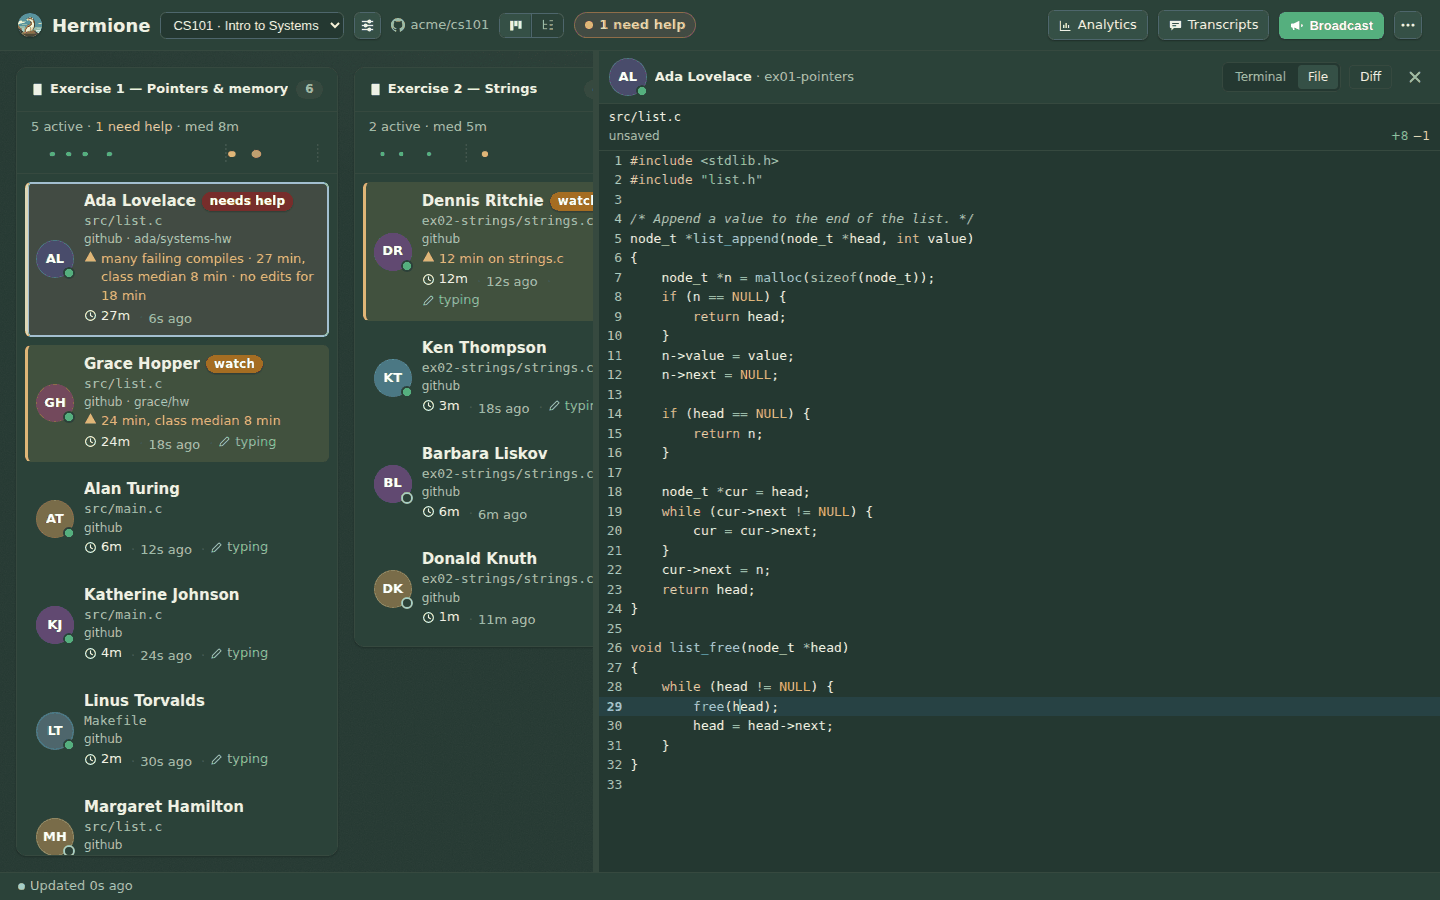
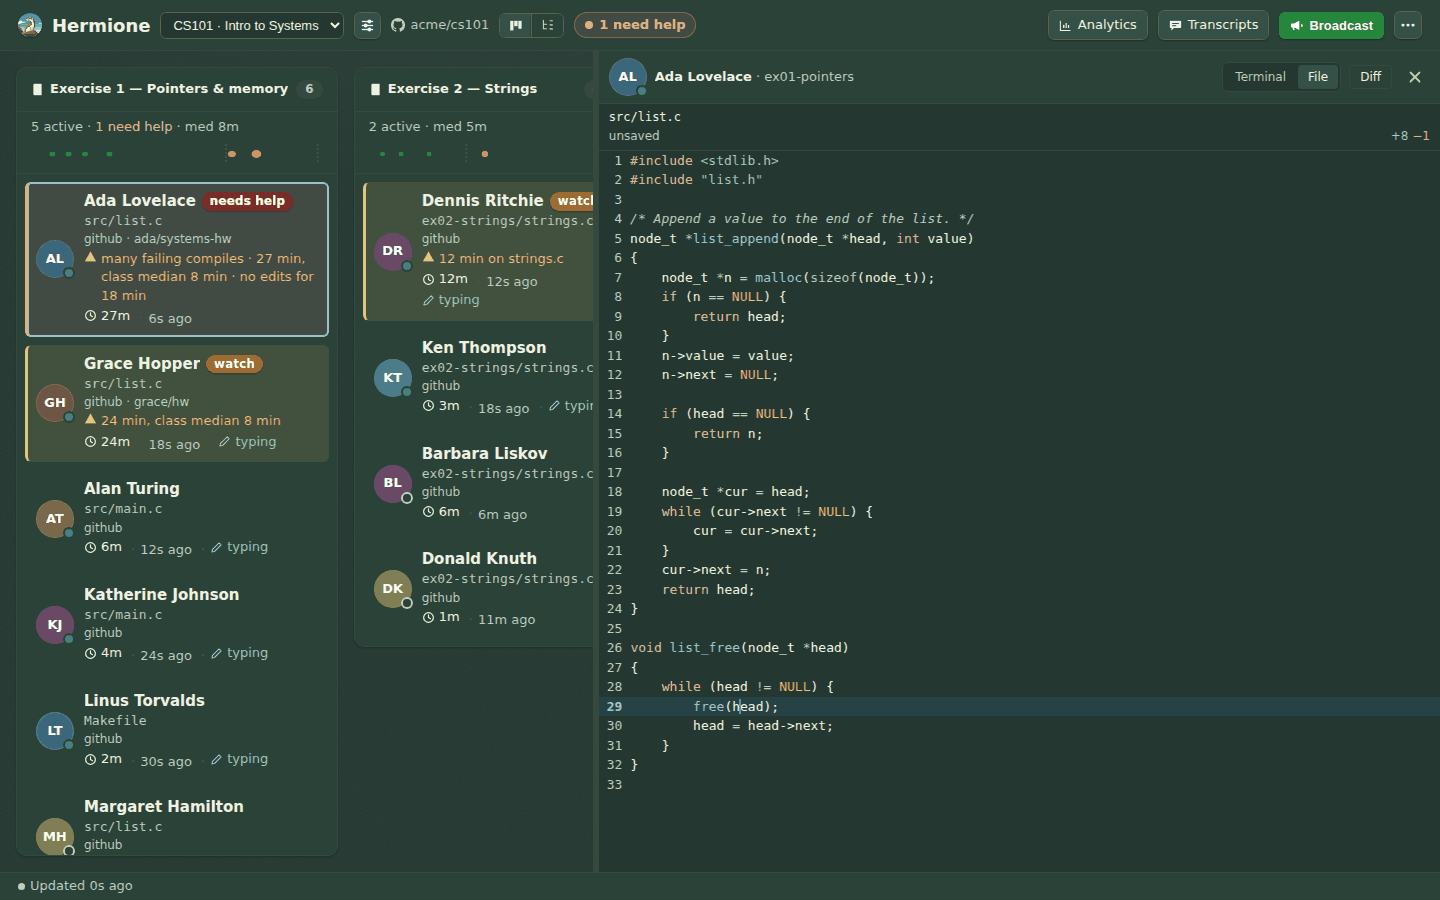
Fix the accessibility findings from an axe audit
Auditing every page in both themes with axe-core found real problems:

- White text on the primary button (Broadcast, Sign in, dialog Send) was 2.75:1
  in the dark theme. Buttons now use --primary-bg/--primary-hover, which clear
  4.5:1 in every theme.
- The needs-help pill's red text was 4.18:1 in the light theme; muted and subtle
  text on flagged cards, the green 'typing' text, and amber warning text (now
  --amber-text) were all just under 4.5:1 on the tinted cards in one theme or the
  other; the selected Diff toggle's blue was 4.15:1 in light.
- No page had a main landmark. The board's content is now <main>, the terminal
  dock a named region, and the login form sits in <main> with a <footer>.
- The board/dock divider was mouse-only. It is now focusable, moves with the
  arrow keys (Shift for larger steps, Home/End for the limits) and reports its
  position with aria-valuenow.

contrast.py now also gates these pairings, and the axe audit is kept in the
screenshot skill as scripts/a11y.js. The teacher guide's screenshots are
regenerated.

Claude-Session: https://claude.ai/code/session_011qtRC3MwSDrHkoBdiSnsy7

Changed region(s): [[0.875, 0.0, 0.9688, 0.0622], [0.4062, 0.0622, 0.4688, 0.1244], [0.0, 0.2489, 0.0625, 0.3111]]

diff --git a/crates/server/static/index.html b/crates/server/static/index.html
@@ -44,7 +44,7 @@
       font-size: var(--fs-sm); color: var(--fg-subtle);
       display: inline-flex; align-items: center; gap: 5px;
     }
-    .freshness.stale { color: var(--amber); }
+    .freshness.stale { color: var(--amber-text); }
     .freshness.failed { color: var(--red-text); }
     .freshness .fdot { width: 7px; height: 7px; border-radius: 50%; background: currentColor; flex: none; }
     /* Header controls keep their size. Without this every item shrinks at once
@@ -56,8 +56,8 @@
     .hint { flex: 0 1 auto; min-width: 0; overflow: hidden; text-overflow: ellipsis; white-space: nowrap; }
 
     /* Broadcast is the header's primary action — filled, so it leads the eye. */
-    #broadcast { background: var(--green); border-color: transparent; color: #fff; font-weight: 600; }
-    #broadcast:hover { background: var(--green-emphasis); }
+    #broadcast { background: var(--primary-bg); border-color: transparent; color: #fff; font-weight: 600; }
+    #broadcast:hover { background: var(--primary-hover); }
     /* On a narrower window the bar gives up words before it gives up controls:
      * the actions keep their icons (and their names, for screen readers), then
      * the wordmark and repo name go. */
@@ -289,7 +289,7 @@
       font-weight: 600; flex: none; letter-spacing: .01em; box-shadow: var(--shadow-1); }
     .pill.help { background: var(--help-bg); color: #fff; }
     .pill.watch { background: var(--watch-bg); color: #fff; }
-    .who .reason { font-size: var(--fs-sm); color: var(--amber); margin-top: 2px;
+    .who .reason { font-size: var(--fs-sm); color: var(--amber-text); margin-top: 2px;
       display: flex; align-items: flex-start; gap: 4px; }
     .who .prov { font-size: var(--fs-xs); color: var(--fg-subtle); margin-top: 1px;
       white-space: nowrap; overflow: hidden; text-overflow: ellipsis; }
@@ -409,7 +409,7 @@
     .filev .fv-head .sum { margin-left: auto; white-space: nowrap; }
     .filev .fv-head .plus { color: var(--green-text); }
     .filev .fv-head .minus { color: var(--red-text); }
-    .filev .fv-head .stale { color: var(--amber); }
+    .filev .fv-head .stale { color: var(--amber-text); }
     .filev .fv-body {
       position: relative; flex: 1 1 auto; min-height: 0; overflow: auto;
       font-family: ui-monospace, monospace; font-size: var(--fs-sm); line-height: 1.5;
@@ -485,8 +485,8 @@
     .btn { padding: 8px 14px; border-radius: 8px; border: 1px solid var(--border);
       background: var(--surface-2); color: var(--fg); font: inherit; font-size: var(--fs-sm); cursor: pointer; }
     .btn:hover { background: var(--border); }
-    .btn.primary { background: var(--green); border-color: transparent; color: #fff; font-weight: 600; }
-    .btn.primary:hover { background: var(--green-emphasis); }
+    .btn.primary { background: var(--primary-bg); border-color: transparent; color: #fff; font-weight: 600; }
+    .btn.primary:hover { background: var(--primary-hover); }
     .btn:disabled { opacity: .5; cursor: not-allowed; }
 
     /* ---- Assistant settings form (modal) ---- */
@@ -504,7 +504,7 @@
     .modal .toggle input { width: 16px; height: 16px; }
     .modal .notice { margin-top: 10px; padding: 8px 10px; border-radius: 8px; font-size: var(--fs-sm);
       background: var(--surface-2); color: var(--fg-muted); }
-    .modal .notice.warn { color: var(--amber); }
+    .modal .notice.warn { color: var(--amber-text); }
   </style>
 </head>
 <body>
@@ -566,11 +566,11 @@
       </div>
     </div>
   </header>
-  <div id="content">
+  <main id="content">
     <div id="board"><div class="empty">Loading…</div></div>
-    <div id="divider" role="separator" aria-orientation="vertical" aria-label="Resize terminal panel"></div>
-    <div id="dock"></div>
-  </div>
+    <div id="divider" role="separator" aria-orientation="vertical" aria-label="Resize terminal panel" tabindex="0"></div>
+    <section id="dock" aria-label="Student panes"></section>
+  </main>
   <footer id="statusbar">
     <span id="freshness" class="freshness">Connecting…</span>
     <span class="spacer"></span>
@@ -1584,23 +1584,36 @@
       return out.join('');
     }
 
-    // ---- draggable board/dock divider ----
+    // ---- board/dock divider: drag it, or focus it and use the arrow keys ----
     (function () {
       const divider = document.getElementById('divider');
+      const content = document.getElementById('content');
+      const board = document.getElementById('board');
       let dragging = false;
+      const bounds = () => ({ min: 240, max: content.getBoundingClientRect().width - 280 });
+      function setBoardWidth(px) {
+        const { min, max } = bounds();
+        board.style.flex = `0 0 ${Math.round(Math.max(min, Math.min(max, px)))}px`;
+        document.getElementById('dock').style.flex = '1 1 0';
+        relayout();
+      }
+      // A focusable separator is a widget, so it reports where it is. Watching
+      // the board keeps that true however the width changed: a drag, the keys,
+      // or the window being resized.
+      function reportPosition() {
+        const { min, max } = bounds();
+        divider.setAttribute('aria-valuemin', String(min));
+        divider.setAttribute('aria-valuemax', String(Math.round(max)));
+        divider.setAttribute('aria-valuenow', String(Math.round(board.getBoundingClientRect().width)));
+      }
+      new ResizeObserver(reportPosition).observe(board);
+      reportPosition();
       divider.addEventListener('pointerdown', (e) => {
         dragging = true; divider.classList.add('dragging');
         divider.setPointerCapture(e.pointerId); e.preventDefault();
       });
       divider.addEventListener('pointermove', (e) => {
-        if (!dragging) return;
-        const content = document.getElementById('content');
-        const rect = content.getBoundingClientRect();
-        const min = 240, max = rect.width - 280;
-        const bx = Math.max(min, Math.min(max, e.clientX - rect.left));
-        document.getElementById('board').style.flex = `0 0 ${bx}px`;
-        document.getElementById('dock').style.flex = '1 1 0';
-        relayout();
+        if (dragging) setBoardWidth(e.clientX - content.getBoundingClientRect().left);
       });
       const end = (e) => {
         if (!dragging) return;
@@ -1609,6 +1622,14 @@
       };
       divider.addEventListener('pointerup', end);
       divider.addEventListener('pointercancel', end);
+      divider.addEventListener('keydown', (e) => {
+        const step = e.shiftKey ? 96 : 24, now = board.getBoundingClientRect().width;
+        const to = { ArrowLeft: now - step, ArrowRight: now + step,
+                     Home: bounds().min, End: bounds().max }[e.key];
+        if (to === undefined) return;
+        e.preventDefault();
+        setBoardWidth(to);
+      });
     })();
 
     // ---- broadcast composer ----

diff --git a/.claude/skills/hermione-ui-screenshots/scripts/a11y.js b/.claude/skills/hermione-ui-screenshots/scripts/a11y.js
@@ -1,0 +1,52 @@
+// Automated accessibility audit (axe-core) of every teacher page, in both themes,
+// with the interesting states open: the tree, the header menu, a file pane, a diff
+// pane and the broadcast dialog. Prints violations grouped by rule; exits 1 if any.
+//
+//   PORT=8799 node scripts/server.js &      # the fixtures server
+//   npm i axe-core                          # once, anywhere on NODE_PATH
+//   PORT=8799 node scripts/a11y.js
+//
+// It finds real problems the contrast table can't (missing landmarks, ARIA that
+// a widget needs), and it read the *rendered* colours, so it also catches a token
+// used on a ground nobody listed.
+const { chromium } = require('playwright'); const fs = require('fs');
+const axeSrc = fs.readFileSync(require.resolve('axe-core/axe.min.js'), 'utf8');
+const BASE = `http://localhost:${process.env.PORT || 8799}`;
+const scenes = {
+  'board': async (p) => {},
+  'tree': async (p) => { await p.locator('button[data-view="tree"]').click(); await p.waitForTimeout(500); },
+  'menu open': async (p) => { await p.locator('#more').click(); await p.waitForTimeout(200); },
+  'file pane': async (p) => { await p.locator('.card', { hasText: 'Ada Lovelace' }).first().click(); await p.locator('.pane').last().locator('.modes button[data-mode="file"]').click(); await p.waitForTimeout(900); },
+  'diff pane': async (p) => { await p.locator('.card', { hasText: 'Ada Lovelace' }).first().click(); await p.locator('.pane').last().locator('.modes button[data-mode="file"]').click(); await p.locator('.pane').last().locator('.diff').click(); await p.waitForTimeout(900); },
+  'broadcast modal': async (p) => { await p.locator('#broadcast').click(); await p.waitForTimeout(300); },
+  'analytics': null, 'transcripts': null, 'login': null,
+};
+(async () => {
+  const b = await chromium.launch({ executablePath: '/opt/pw-browsers/chromium' });
+  const seen = new Map();
+  for (const theme of ['dark', 'light']) {
+    for (const [name, act] of Object.entries(scenes)) {
+      const ctx = await b.newContext({ viewport: { width: 1440, height: 900 }, colorScheme: theme });
+      await ctx.addInitScript((t) => { localStorage.setItem('hermione.hintSeen', '1'); localStorage.setItem('hermione.theme', t); }, theme);
+      const page = await ctx.newPage();
+      const url = act ? '/' : '/' + name;
+      await page.goto(BASE + url, { waitUntil: 'networkidle' }); await page.waitForTimeout(600);
+      if (act) await act(page);
+      await page.addScriptTag({ content: axeSrc });
+      const res = await page.evaluate(() => axe.run(document, { resultTypes: ['violations'] }));
+      for (const v of res.violations) {
+        const key = v.id + '|' + name;
+        const e = seen.get(key) || { id: v.id, impact: v.impact, help: v.help, scene: name, themes: new Set(), nodes: [] };
+        e.themes.add(theme);
+        for (const n of v.nodes.slice(0, 3)) e.nodes.push(n.target.join(' ') + '  ::  ' + (n.failureSummary || '').split('\n').slice(1, 2).join(' ').trim());
+        seen.set(key, e);
+      }
+      await ctx.close();
+    }
+  }
+  await b.close();
+  const list = [...seen.values()].sort((a, b) => ['critical','serious','moderate','minor'].indexOf(a.impact) - ['critical','serious','moderate','minor'].indexOf(b.impact));
+  if (!list.length) console.log('axe: no violations in any scene or theme');
+  process.exitCode = list.length ? 1 : 0;
+  for (const e of list) { console.log(`\n[${e.impact}] ${e.id} — ${e.help}\n  scene: ${e.scene}  themes: ${[...e.themes].join(',')}`); for (const n of [...new Set(e.nodes)].slice(0, 4)) console.log('   -', n.slice(0, 220)); }
+})();

diff --git a/crates/server/static/tokens.css b/crates/server/static/tokens.css
@@ -32,8 +32,8 @@
    * surface they land on, so 4.5:1 holds on every card and not only on --bg.
    * --fg-subtle was #93a08e, which was 3.21:1 there. */
   --fg: #eef1e6;
-  --fg-muted: #b4c0ad;
-  --fg-subtle: #b6bfb3;
+  --fg-muted: #bcc8b5;
+  --fg-subtle: #bec7bb;
 
   /* semantic — softened "coloured chalk", but dark enough for white-on-colour */
   --accent: #3f7cbb;
@@ -42,7 +42,12 @@
   --green-emphasis: #67c97e;
   --red: #ef8e8e;
   --amber: #e6c163;
+  --amber-text: #e6c163;
   --help-bg: #b62324;
+  /* Filled primary buttons: white text on these clears 4.5:1 (--green is a text
+   * and dot colour, too light to carry white text in the dark theme). */
+  --primary-bg: #238636;
+  --primary-hover: #1f7d33;
   --watch-bg: #9e6a03;
 
   /* The same hues again, lightened for use as TEXT on a dark surface. The
@@ -50,7 +55,7 @@
    * the board they measured 2.0-3.7:1. Two jobs, two tokens. */
   --accent-text: #a0bfdf;
   --red-text: #f3a9a9;
-  --green-text: #87cb97;
+  --green-text: #98d5a5;
 
   /* a real type scale — five steps, not thirteen.
    * Sized for a board read across a classroom rather than a code editor at
@@ -129,7 +134,7 @@
 
   --fg: #1f2328;
   --fg-muted: #59636e;
-  --fg-subtle: #636b74;
+  --fg-subtle: #5c6570;
 
   --accent: #0969da;
   --brand: #8250df;
@@ -137,12 +142,15 @@
   --green-emphasis: #1f883d;
   --red: #cf222e;
   --amber: #9a6700;
+  --amber-text: #805700;
   --help-bg: #cf222e;
+  --primary-bg: #1a7f37;
+  --primary-hover: #166f30;
   --watch-bg: #9a6700;
 
-  --accent-text: #0967d5;
-  --red-text: #ce222e;
-  --green-text: #197a35;
+  --accent-text: #085cc0;
+  --red-text: #b91f2b;
+  --green-text: #16702f;
 
   --hl-comment: var(--fg-subtle);
   --hl-string: #0a3069;
@@ -177,7 +185,7 @@
 
     --fg: #1f2328;
     --fg-muted: #59636e;
-    --fg-subtle: #636b74;
+    --fg-subtle: #5c6570;
 
     --accent: #0969da;
     --brand: #8250df;
@@ -185,12 +193,15 @@
     --green-emphasis: #1f883d;
     --red: #cf222e;
     --amber: #9a6700;
+    --amber-text: #805700;
     --help-bg: #cf222e;
+    --primary-bg: #1a7f37;
+    --primary-hover: #166f30;
     --watch-bg: #9a6700;
 
-    --accent-text: #0967d5;
-    --red-text: #ce222e;
-    --green-text: #197a35;
+    --accent-text: #085cc0;
+    --red-text: #b91f2b;
+    --green-text: #16702f;
 
     --hl-comment: var(--fg-subtle);
     --hl-string: #0a3069;

diff --git a/crates/server/static/login.html b/crates/server/static/login.html
@@ -55,11 +55,11 @@
       box-shadow: 0 0 0 3px var(--accent-wash); }
     button {
       width: 100%; padding: 11px; border: none; border-radius: var(--radius-sm); cursor: pointer;
-      background: var(--green); color: #fff; font: inherit; font-size: var(--fs-base); font-weight: 600;
+      background: var(--primary-bg); color: #fff; font: inherit; font-size: var(--fs-base); font-weight: 600;
       margin-top: 6px; box-shadow: var(--shadow-1);
       transition: background .12s var(--ease), transform .06s var(--ease);
     }
-    button:hover { background: var(--green-emphasis); }
+    button:hover { background: var(--primary-hover); }
     button:active { transform: translateY(1px); }
     .error { color: var(--red-text); font-size: var(--fs-sm); min-height: 1.1em; margin-top: 12px; font-weight: 500; }
     .foot { position: fixed; bottom: 18px; left: 0; right: 0; z-index: 1;
@@ -67,6 +67,7 @@
   </style>
 </head>
 <body>
+  <main>
   <form class="card" id="form">
     <div class="glyph"><img src="/assets/hermione-mark.svg" alt="Hermione" /></div>
     <h1>Hermione</h1>
@@ -82,7 +83,8 @@
     <button type="submit">Sign in</button>
     <div class="error" id="error"></div>
   </form>
-  <div class="foot">Hermione · live terminal observability for the classroom</div>
+  </main>
+  <footer class="foot">Hermione · live terminal observability for the classroom</footer>
   <script>
     document.getElementById('form').addEventListener('submit', async (e) => {
       e.preventDefault();

diff --git a/.claude/skills/hermione-ui-screenshots/scripts/contrast.py b/.claude/skills/hermione-ui-screenshots/scripts/contrast.py
@@ -57,6 +57,11 @@ def wash(theme, tok, base):
 # on: syntax colours are drawn on every row kind; the cursor line's own number
 # (`--accent-text`) only on the cursor line; and so on.
 PLAIN, CURSOR, ADDED, REMOVED = 'plain row', 'cursor line', 'added row', 'removed row'
+# Elsewhere on the board: a card flagged needs-help / watch (and the header's
+# needs-help pill, which sits on the same wash), and the filled primary button.
+HELP_CARD, WATCH_CARD = 'help card', 'watch card'
+PRIMARY, PRIMARY_HOVER = 'primary btn', 'primary hover'
+SELECTED = 'selected ctl'  # e.g. the pressed Diff toggle: accent text on the accent wash
 PAIRS = [
     ('text', '--fg', [PLAIN, CURSOR, ADDED, REMOVED]),
     ('comment', '--hl-comment', [PLAIN, CURSOR, ADDED, REMOVED]),
@@ -70,7 +75,14 @@ PAIRS = [
     ('cursor line number', '--accent-text', [CURSOR]),
     ('+ marker', '--green-text', [ADDED]),
     ('- marker', '--red-text', [REMOVED]),
-    ('stale / header', '--amber', [PLAIN]),
+    ('stale / warning', '--amber-text', [PLAIN, HELP_CARD, WATCH_CARD]),
+    ('typing', '--green-text', [PLAIN, HELP_CARD, WATCH_CARD]),
+    ('muted text', '--fg-muted', [PLAIN, HELP_CARD, WATCH_CARD]),
+    ('subtle text', '--fg-subtle', [HELP_CARD, WATCH_CARD]),
+    ('help text / pill', '--red-text', [HELP_CARD]),
+    # A literal colour: white text sits on the button's background token.
+    ('white on button', '#ffffff', [PRIMARY, PRIMARY_HOVER]),
+    ('accent on wash', '--accent-text', [SELECTED]),
 ]
 
 
@@ -86,6 +98,11 @@ def main():
             CURSOR: wash(theme, '--cursor-line-wash', bg),
             ADDED: wash(theme, '--diff-add-wash', bg),
             REMOVED: wash(theme, '--diff-del-wash', bg),
+            HELP_CARD: wash(theme, '--help-wash', rgb(resolve(theme, '--surface'))),
+            WATCH_CARD: wash(theme, '--watch-wash', rgb(resolve(theme, '--surface'))),
+            SELECTED: wash(theme, '--accent-wash', rgb(resolve(theme, '--surface'))),
+            PRIMARY: rgb(resolve(theme, '--primary-bg')),
+            PRIMARY_HOVER: rgb(resolve(theme, '--primary-hover')),
         }
         print(f'\n{name}  (board {resolve(theme, "--bg")})')
         print(f'  {"":20}' + ''.join(f'{g:>14}' for g in grounds))
@@ -95,7 +112,7 @@ def main():
                 if g not in on:
                     cells += f'{"·":>14}'
                     continue
-                r = ratio(rgb(resolve(theme, tok)), gb)
+                r = ratio(rgb(tok if tok.startswith('#') else resolve(theme, tok)), gb)
                 if r < MIN:
                     failed.append((name, label, g, round(r, 2)))
                 cells += f'{r:>13.2f}{"!" if r < MIN else " "}'

diff --git a/.claude/skills/hermione-ui-screenshots/SKILL.md b/.claude/skills/hermione-ui-screenshots/SKILL.md
@@ -126,4 +126,23 @@ drawn on, in both themes, and exits 1 if any pairing is under 4.5:1:
 python3 .claude/skills/hermione-ui-screenshots/scripts/contrast.py
 ```
 
-Run it after touching any `--hl-*`, `--diff-*-wash` or `--cursor-line-wash` token.
+Run it after touching any colour token. Besides the file pane's grounds it checks
+the text colours on flagged (needs-help / watch) cards, the header's needs-help
+pill, white text on the primary button, and the selected-control state.
+
+## Auditing accessibility: `scripts/a11y.js`
+
+The contrast table only knows the pairings someone listed. `a11y.js` runs
+[axe-core](https://github.com/dequelabs/axe-core) against the *rendered* pages —
+every teacher page, both themes, with the tree, the header menu, a file pane, a
+diff pane and the broadcast dialog open — so it also finds a token used on a
+ground nobody listed, missing landmarks, and ARIA a widget needs (it is how a
+focusable divider without `aria-valuenow` was caught):
+
+```bash
+npm i axe-core            # once, somewhere on NODE_PATH
+PORT=8799 node .claude/skills/hermione-ui-screenshots/scripts/server.js &
+PORT=8799 node .claude/skills/hermione-ui-screenshots/scripts/a11y.js
+```
+
+It exits 1 on any violation.
